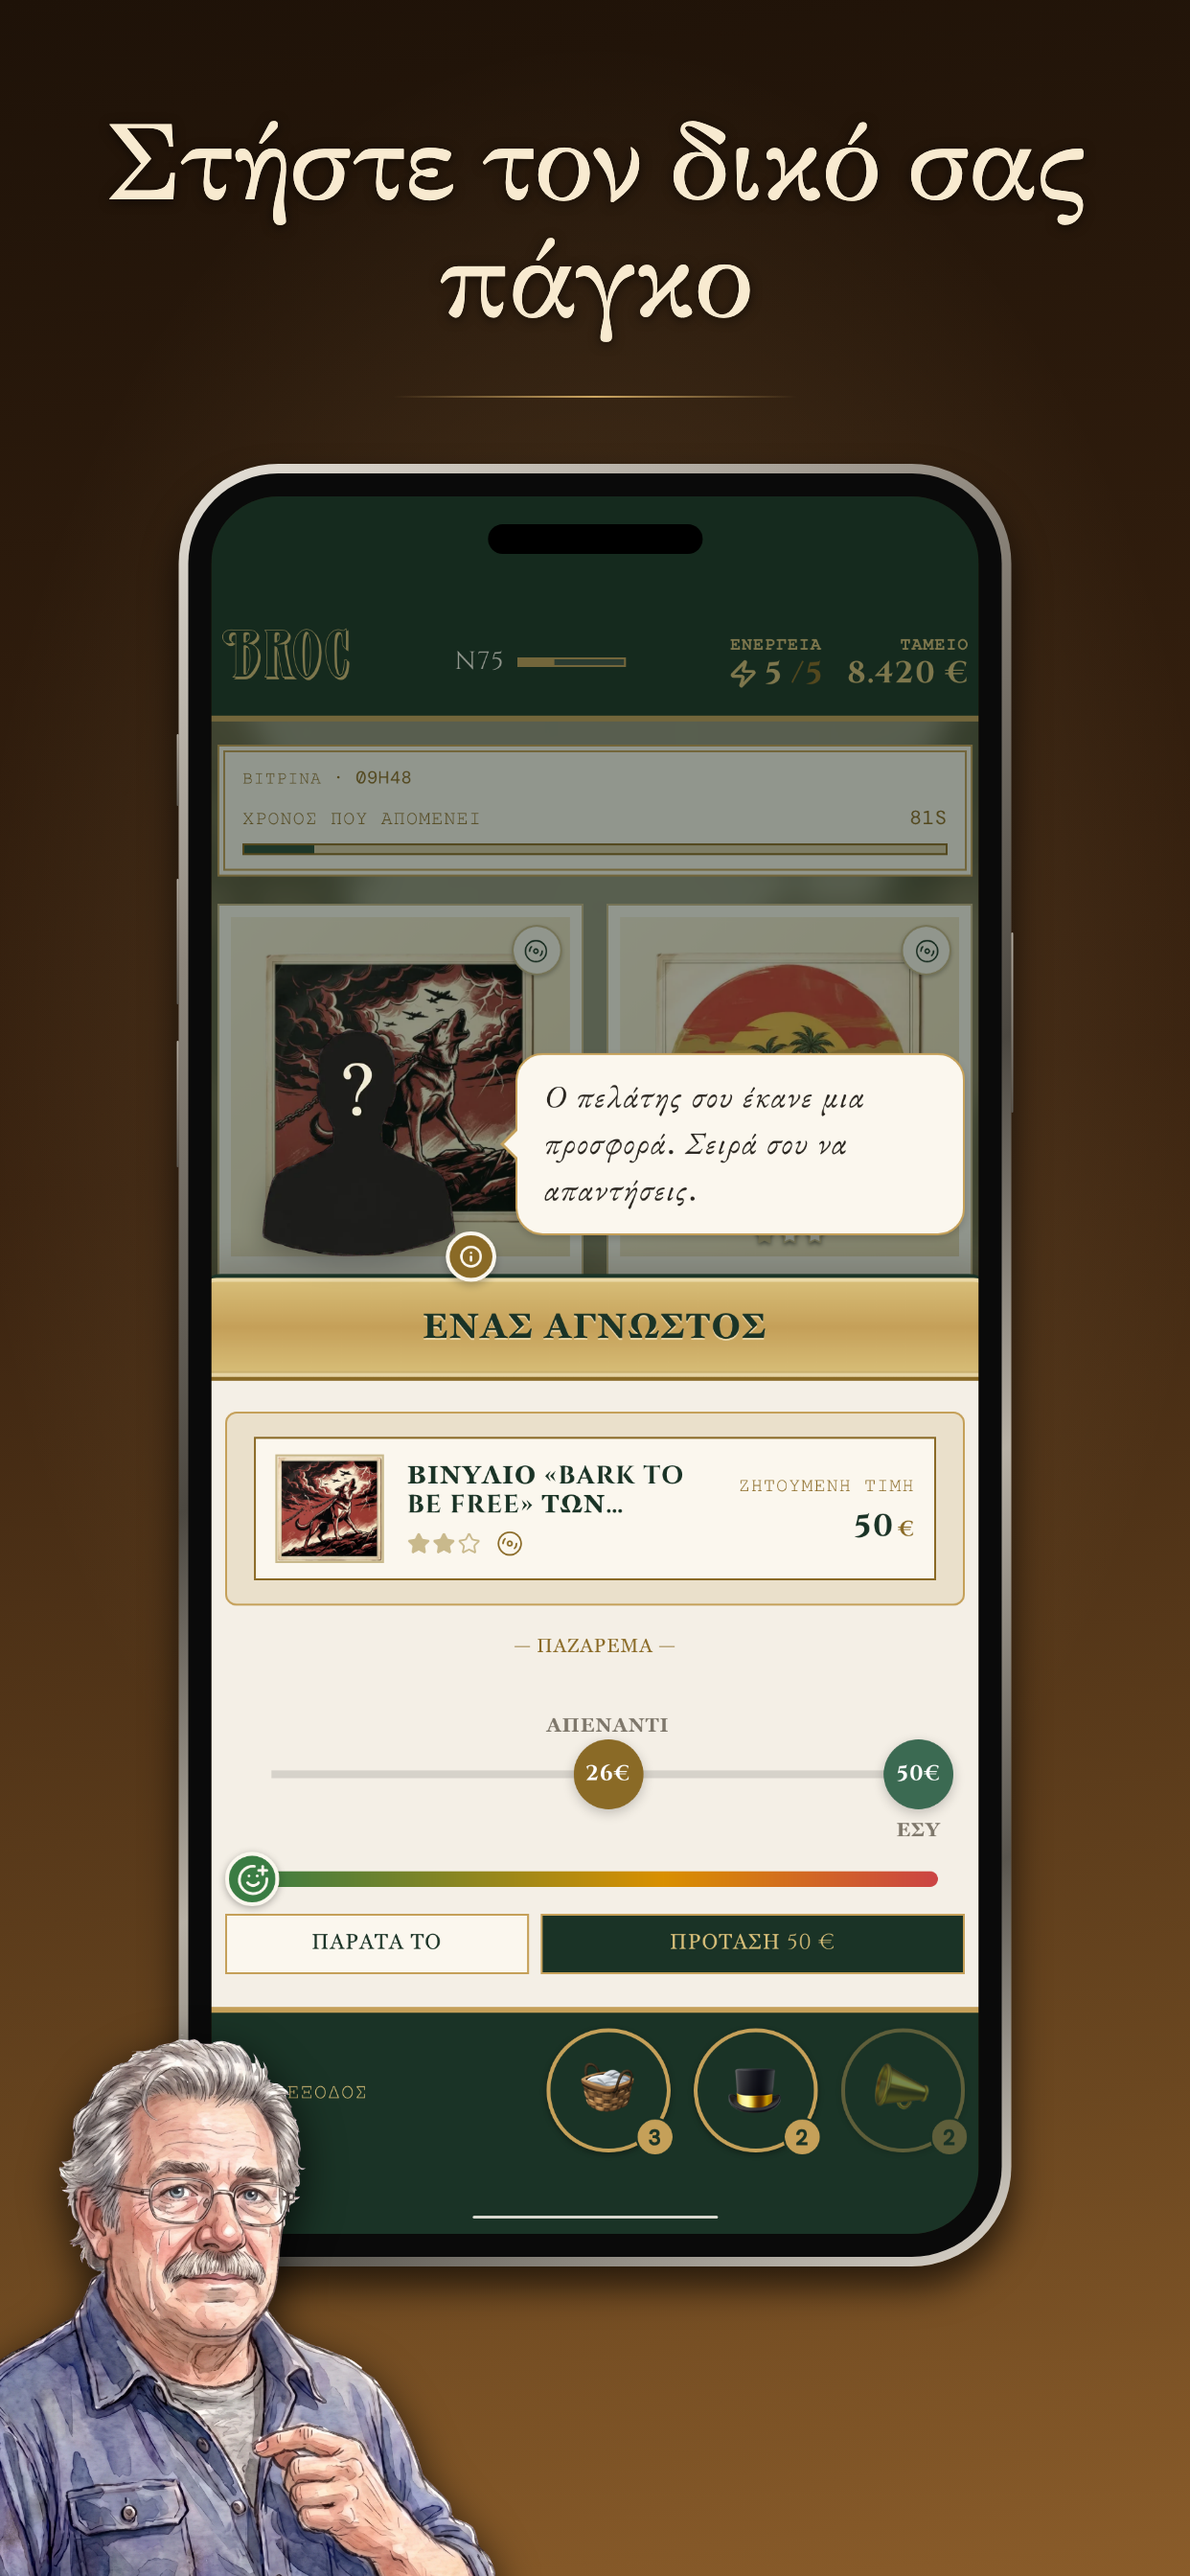
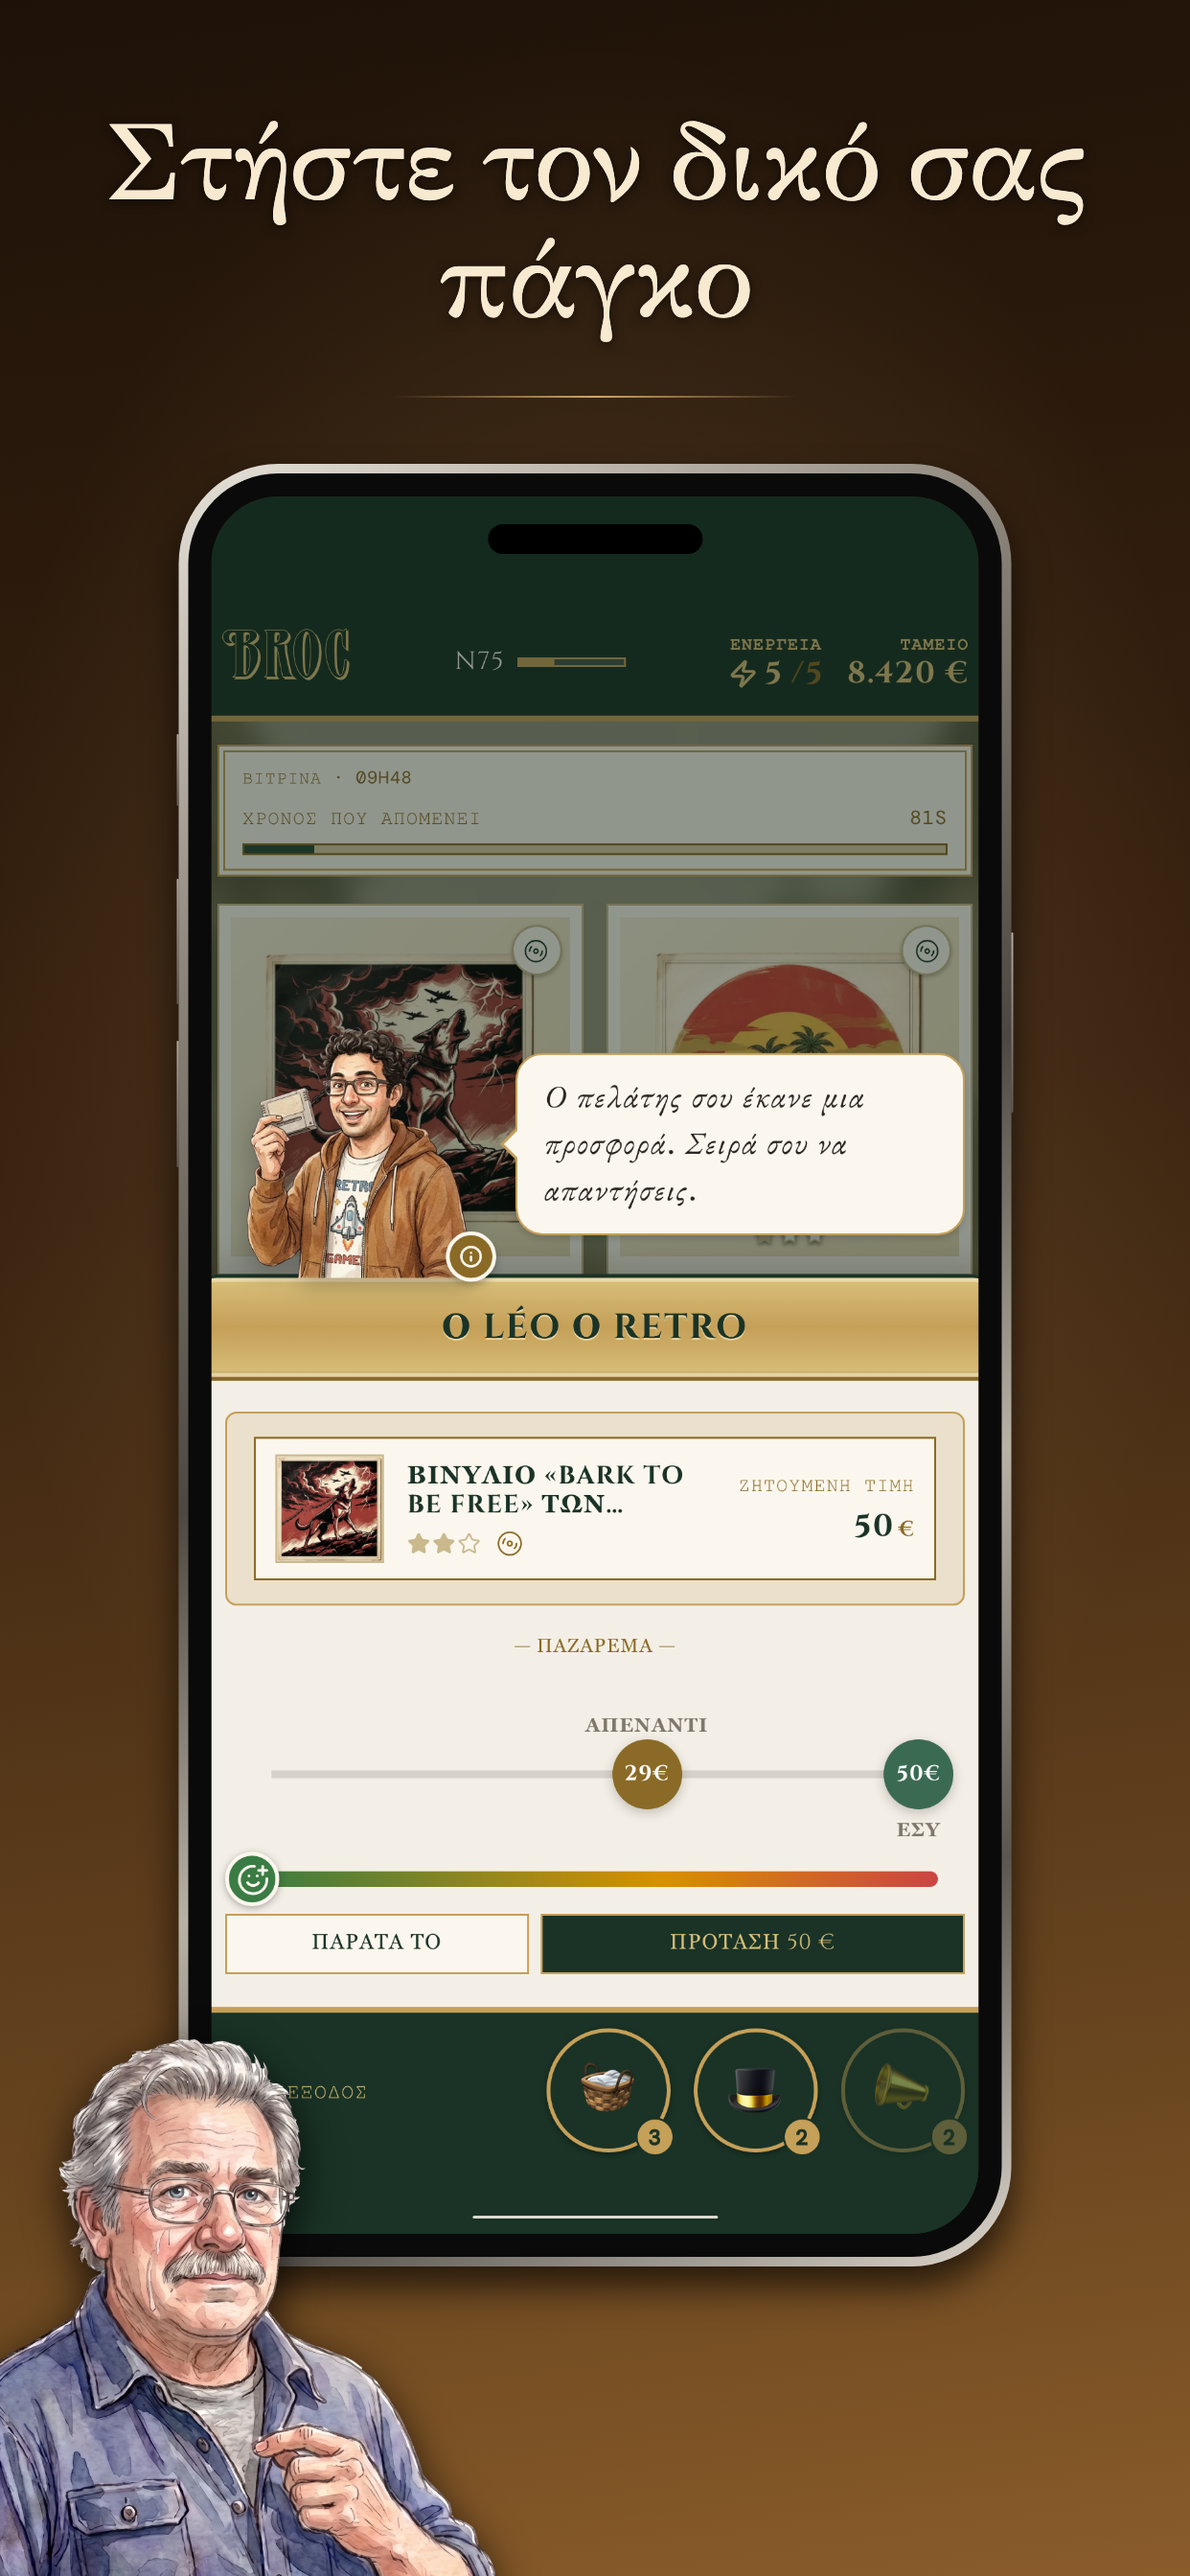
feat(appstore): save de demo coherente et 40 visuels definitifs
La save de demo etait au niveau 75 avec competencesDebloquees: [] — un
etat impossible en jeu, qui privait les captures de deux mecaniques :

- « Lecteur d'ames » (general.presentation.1) revele le nom et l'ambiance
  de l'acheteur. Sans elle, l'etal n'affichait qu'une silhouette noire et
  « Un inconnu » — c'est desormais un client nomme et illustre.
- Aucun objet n'ayant jamais ete vu, la pastille « Nouveau » s'affichait
  sur toutes les cartes, et debordait de l'ecran quand le nom tenait sur
  deux lignes. Le feuillet de Gutenberg est marque comme deja vu.

L'arbre general en entier est credite (12 competences). Correction utile
au-dela des visuels : seed-demo-sim.sh partait de la meme save.

Changed region(s): [[0.1836, 0.375, 0.6425, 0.5312], [0.4589, 0.6562, 0.5813, 0.7188]]

diff --git a/scripts/gen-save-demo.ts b/scripts/gen-save-demo.ts
@@ -39,6 +39,7 @@ import { xpRequisPourNiveauBrocanteur } from "@/lib/xp";
 import { OBJET_TEMPLATES, LEGENDAIRES } from "@/data/objetTemplates";
 import { UNIQUES } from "@/data/uniques";
 import { QUETES_PRINCIPALES } from "@/data/quetesPrincipales";
+import { competencesParTree, TREE_GENERAL } from "@/data/competences";
 import { mulberry32 } from "./appstore/mulberry32.mjs";
 
 // --- Graine du RNG (reproductibilité inter-exécutions, optionnelle) -----
@@ -94,6 +95,9 @@ function objetDe(id: string, etat: EtatObjet, idx: number): Objet {
 // Les 1ers slots (triés commun→rare→légendaire) deviennent « donnés » (sticker
 // couleur + étoiles) ; une frange suivante reste « vue » (grisée) pour un
 // dégradé de progression réaliste. Le reste : silhouette.
+// Templates forcés à « vu » : la pastille « Nouveau » du chinage déborde de
+// l'écran quand le nom tient sur deux lignes (cf. visuels App Store).
+const DEJA_VUS = new Set(["leg.lv.gutenberg_feuillet"]);
 const ETATS_DEMO: EtatObjet[] = ["Bon", "Très bon", "Pristin état"];
 const collection = initCollection();
 for (const cat of Object.keys(collection) as CategorieObjet[]) {
@@ -113,7 +117,7 @@ for (const cat of Object.keys(collection) as CategorieObjet[]) {
         donation: { etat, valeur: Math.round(valeurBase * prime), valeurBase },
       };
     }
-    if (i < nDonnes + nVus) {
+    if (i < nDonnes + nVus || DEJA_VUS.has(s.templateId)) {
       return { ...s, vu: true, dejaPossede: true, vuDansCollection: true };
     }
     return s;
@@ -150,6 +154,13 @@ const missions: MissionResolution[] = QUETES_PRINCIPALES.map((ch, i) => ({
   jourResolution: 5 + i * 6,
 }));
 
+// --- Compétences : l'arbre général en entier ------------------------------
+// Un niveau 75 sans aucune compétence est incohérent, et prive la démo de
+// mécaniques visibles — « Lecteur d'âmes » (general.presentation.1) est ce qui
+// révèle le nom et l'ambiance de l'acheteur : sans lui, l'étal n'affiche que
+// « Un inconnu » et une silhouette noire.
+const competencesDebloquees = competencesParTree(TREE_GENERAL).map((c) => c.id);
+
 const brocanteId = "marche-saint-ouen";
 const state: GameState = {
   version: SAVE_VERSION,
@@ -163,7 +174,7 @@ const state: GameState = {
   tendances: genererTendances(),
   prochainesTendances: genererTendances(),
   prochainRafraichissementTendances: prochainLundi(INITIAL_JOUR + 1),
-  competencesDebloquees: [],
+  competencesDebloquees,
   brocanteur: { xp, niveau: NIVEAU_CIBLE, pointsDisponibles: 0 },
   collection,
   gazetteAchetee: true,
